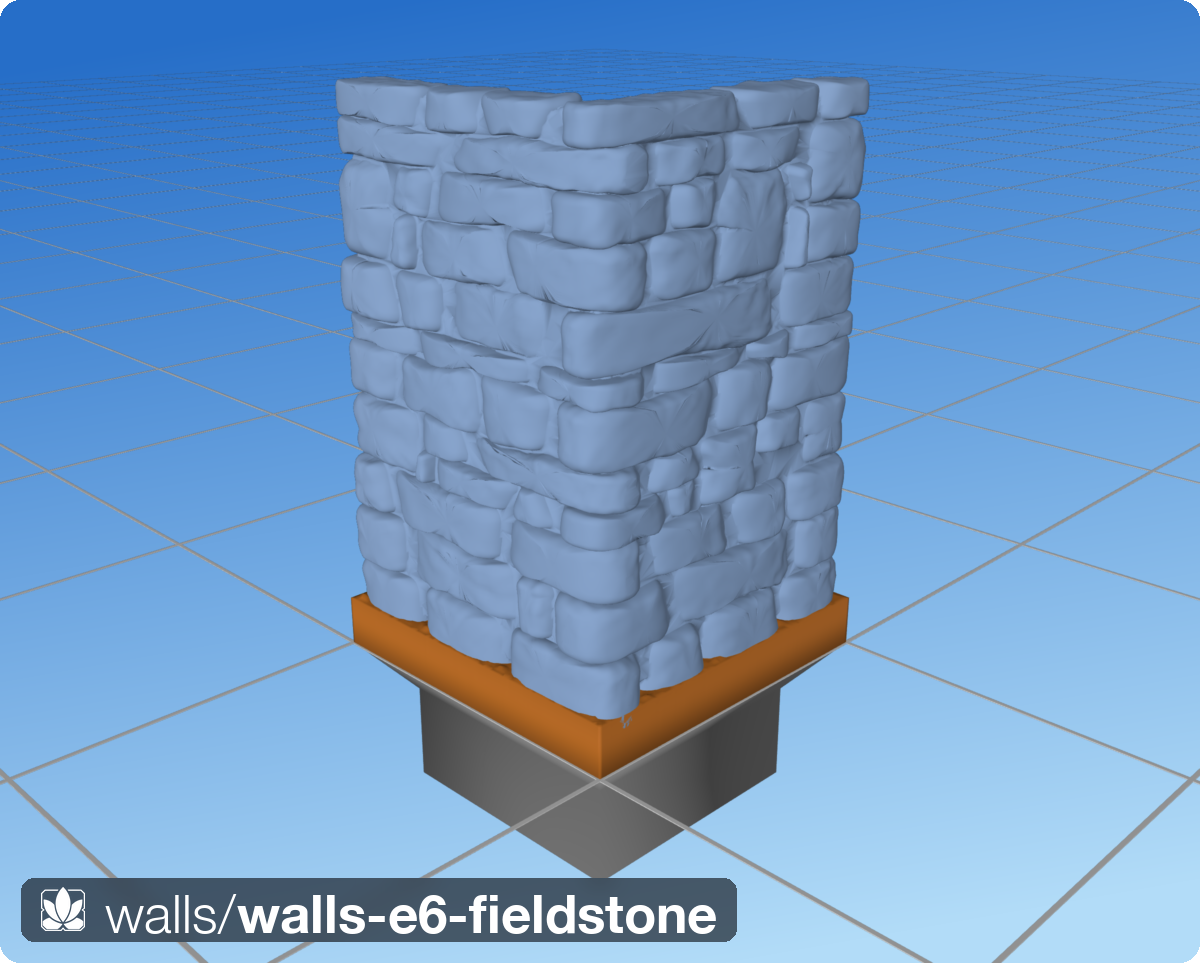
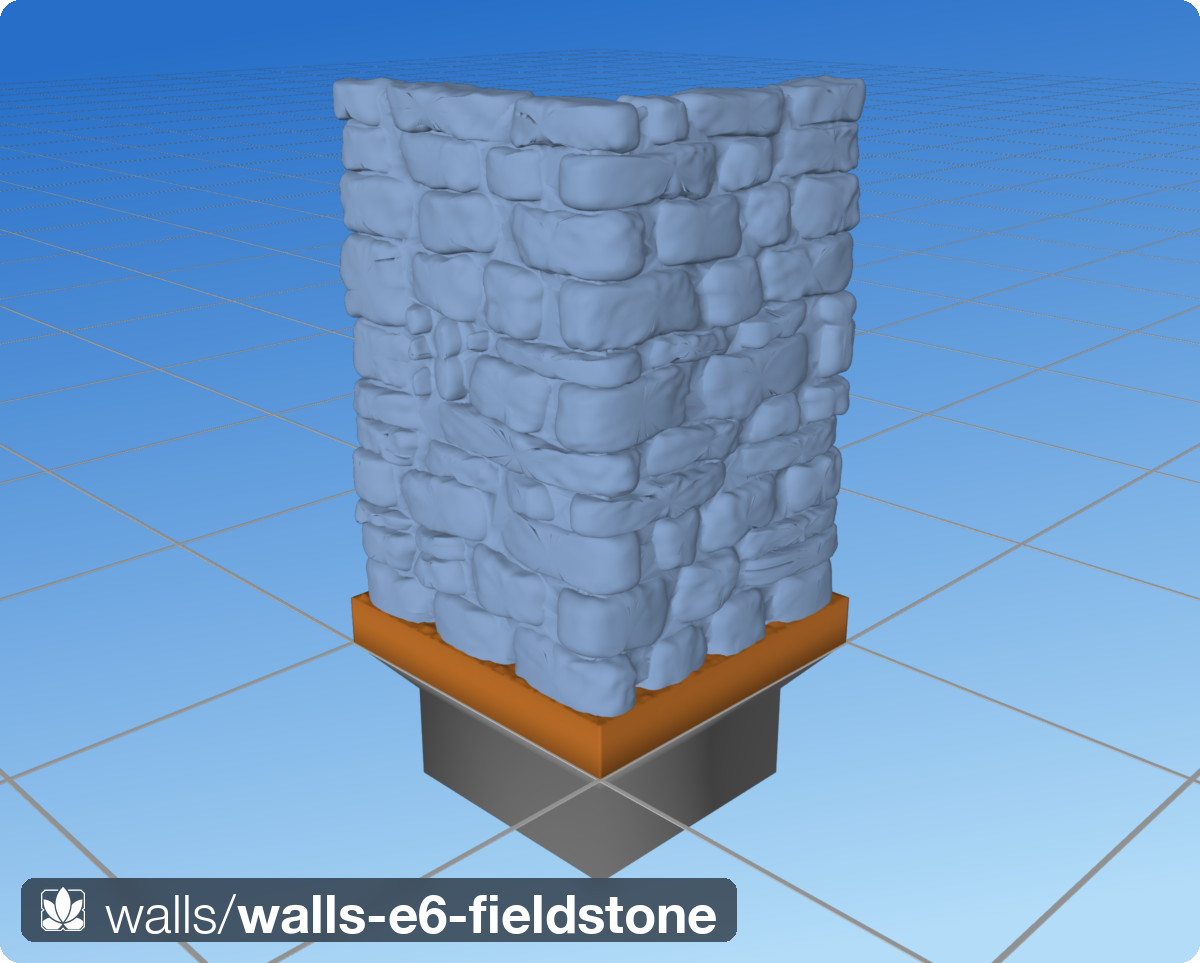
Walls: fieldstone E21+E22 — rough/irregular/wandery, then rounder + tighter
E21 (Shawn: rougher, more irregularly-shaped rocks, wandery cracks):
- texture amplitudes up: undulation clip(0.045*foot, 0.14, 0.45),
  grain clip(0.016*foot, 0.12, 0.30) at x0.6
- head joints bow +/-1.1mm at midpoint: a shared parabola, zero at
  the bed lines — both neighbours evaluate the same curve
- bed wobble 0.16-0.38 at shorter wavelengths (11-32mm); course min
  2.3 -> 2.6 so the thinnest wobble waists stay chink-class
- per-stone inward-only outline noise: irregular silhouettes, cracks
  that open and close along their run (no-overlap guarantee intact)

E22 (Shawn: more rounded, less gap; fix non-watertight):
- roundover range 1.3-2.6mm (size cap 0.26); morph shoulders fuller
  (b 0.33-0.48)
- outline noise reduced to 0.04-0.16mm WITH A FLOOR: E21's zero-noise
  minima left neighbour surfaces exactly tangent, and one tangency
  survived the union as a single non-manifold edge after float32 STL
  rounding — the hairline floor keeps every contact transversal
- exported STL watertight again (0 open, 0 non-manifold edges)

Red-mortar diag 0.0000-0.0001 on all five views.

diff --git a/src/dharmatiles/walls/fieldstone.py b/src/dharmatiles/walls/fieldstone.py
@@ -46,18 +46,35 @@ from .masonry import CutStoneWall, _Cell, _Seg
 
 # ── Iteration knobs (module constants while prototyping) ─────────────────────
 # Crack network
-_WOBBLE_AMP_MM    = (0.14, 0.32)  # per-sine bed wobble amplitude (2 sines).
-                                  # Total ≤ 0.64: two INDEPENDENT beds can
-                                  # close on each other by twice that, and
-                                  # the thinnest stones (split pairs of a
-                                  # 5.5 mm course at 2.8–7.5 mm courses)
-                                  # are ~2.5 mm — the beds must never cross
-_WOBBLE_WL_MM     = (14.0, 40.0)  # bed wobble wavelengths
+_WOBBLE_AMP_MM    = (0.16, 0.38)  # per-sine bed wobble amplitude (2 sines).
+                                  # Total ≤ 0.76: two INDEPENDENT beds can
+                                  # close on each other by twice that —
+                                  # the course minimum (2.6) keeps the
+                                  # thinnest waists ≥ ~1 mm (chink-class,
+                                  # never crossing)
+_WOBBLE_WL_MM     = (11.0, 32.0)  # bed wobble wavelengths (E21: shorter
+                                  # = more wander per stone width)
 _WOBBLE_TAPER_MM  = 12.0          # wobble fades to 0 within this of a
                                   # segment end: corners/butt ends pack
                                   # straight and tight
 _DRIFT_MM         = 2.2           # head joints slant up to ±this across
                                   # their course (staggered, never aligned)
+_BOW_MM           = 1.1           # head joints BOW up to ±this at their
+                                  # midpoint (E21 wandery cracks): the
+                                  # joint is a shared parabola, zero at
+                                  # the bed lines, both neighbours
+                                  # evaluating the same curve
+_RING_NOISE_MM    = (0.04, 0.16)  # per-stone INWARD-only outline noise
+                                  # (floor, max; 2 sinusoids over the
+                                  # perimeter): irregular stone shapes +
+                                  # cracks that open and close along
+                                  # their run.  Inward-only, so the
+                                  # no-overlap guarantee is untouched.
+                                  # The FLOOR keeps contacts hairline-
+                                  # separated instead of exactly tangent
+                                  # — an exact-tangency pinch survived
+                                  # the union as one non-manifold edge
+                                  # after float32 STL rounding (E21)
 # Stone body (E17: full pebble morph — "an isosphere morphed to fit
 # the outline/depth of the cracked region".  Sphere topology: longitude
 # follows the crack-bounded outline (the EQUATOR ring is the outline at
@@ -66,11 +83,12 @@ _DRIFT_MM         = 2.2           # head joints slant up to ±this across
 # Every surface is curved; there are no flat faces and no arris lines.
 # `roundover_mm` still rounds the 2D outline corners — the equator
 # silhouette — per stone)
-_ROUND_SIZE_CAP   = 0.22          # per-stone 2D roundover ≤ this × the
+_ROUND_SIZE_CAP   = 0.26          # per-stone 2D roundover ≤ this × the
                                   # outline's smaller bbox dimension
-                                  # (thin stones must keep their face)
+                                  # (thin stones must keep their face;
+                                  # 0.38 made dark slots of them, E16)
 _MORPH_A          = (2.0, 3.2)    # superellipse meridian s=(1−|u|^a)^b,
-_MORPH_B          = (0.30, 0.45)  # u=sin(lat): a=2,b=0.5 is a true
+_MORPH_B          = (0.33, 0.48)  # u=sin(lat): a=2,b=0.5 is a true
                                   # ellipse — which read as MELTED dough
                                   # (all curvature at the silhouette,
                                   # equator-line contact, cracks became
@@ -154,7 +172,7 @@ class FieldstoneWall(CutStoneWall):
     """
 
     def __init__(self, spine, *,
-                 course_mm: tuple[float, float] = (2.3, 6.2),
+                 course_mm: tuple[float, float] = (2.6, 6.2),
                  bay_mm:    tuple[float, float] = (5.0, 16.0),
                  joint_mm:  float = 0.0,   # physical crack gap (Shawn E18:
                                            # zero — stones TOUCH at their
@@ -164,7 +182,7 @@ class FieldstoneWall(CutStoneWall):
                                            # meeting there, a V-groove
                                            # with no gap at its root)
                  reveal_mm: float = 2.8,
-                 roundover_mm: tuple[float, float] = (0.9, 2.0),
+                 roundover_mm: tuple[float, float] = (1.3, 2.6),
                  relief_mm:    float | None = None,
                  relief_wl:    tuple[float, float] | None = (3.0, 9.0),
                  min_bond_mm:  float = 1.8,
@@ -179,7 +197,7 @@ class FieldstoneWall(CutStoneWall):
         # the stone's footprint" (_stone_texture) — restore it.
         self.relief_mm = relief_mm
         self._beds:   dict[tuple, tuple] = {}   # (seg, zkey) → sine params
-        self._drifts: dict[tuple, float] = {}   # (seg, course, tkey) → drift
+        self._drifts: dict[tuple, tuple] = {}   # (seg,course,tkey) → (d,bow)
 
     # ── shared crack curves ──────────────────────────────────────────────────
     # Both stones flanking a crack evaluate the SAME curve (cached by a
@@ -209,12 +227,15 @@ class FieldstoneWall(CutStoneWall):
             return w * taper
         return f
 
-    def _drift(self, seg_i: int, course: int, t: float) -> float:
-        """Slant of the head joint at cut position t in this course."""
+    def _drift(self, seg_i: int, course: int, t: float) -> tuple:
+        """(slant, bow) of the head joint at cut position t in this
+        course — a shared parabola: zero at the bed lines, bowing at
+        the midpoint, slanting across the course."""
         key = (seg_i, course, int(round(t * 100.0)))
         if key not in self._drifts:
             rng = self._feature_rng(11, *key)
-            self._drifts[key] = float(rng.uniform(-_DRIFT_MM, _DRIFT_MM))
+            self._drifts[key] = (float(rng.uniform(-_DRIFT_MM, _DRIFT_MM)),
+                                 float(rng.uniform(-_BOW_MM, _BOW_MM)))
         return self._drifts[key]
 
     # ── cell topology ────────────────────────────────────────────────────────
@@ -327,11 +348,14 @@ class FieldstoneWall(CutStoneWall):
                         (t_cut, zeff(cell.z1, t_cut))]
             pts = []
             for crs, zb0, zb1 in bands:
-                d = self._drift(seg_i, crs, t_cut)
+                d, bow = self._drift(seg_i, crs, t_cut)
                 zm = (zb0 + zb1) / 2.0
-                for zb in (zb0, zb1):
-                    t = t_cut + d * (zb - zm) / (zb1 - zb0)
-                    pts.append((t, zeff(zb, t)))
+                hh = (zb1 - zb0) / 2.0
+                for z in np.linspace(zb0, zb1, 5):
+                    q = (z - zm) / hh
+                    t = t_cut + d * q / 2.0 + bow * (1.0 - q * q)
+                    zpt = zeff(z, t) if z in (zb0, zb1) else z
+                    pts.append((t, zpt))
             return pts
 
         left  = side(cell.t0, cell.end0)
@@ -388,6 +412,27 @@ class FieldstoneWall(CutStoneWall):
         dense = shapely.segmentize(poly, _RING_STEP_MM)
         ring = np.asarray(dense.exterior.coords)[:-1]
         n = len(ring)
+
+        # Per-stone INWARD outline noise (E21): irregular silhouettes,
+        # cracks that open and close along their run.  Inward-only, so
+        # the no-overlap tessellation guarantee is untouched.
+        tang = np.roll(ring, -1, axis=0) - np.roll(ring, 1, axis=0)
+        nrm = np.column_stack([tang[:, 1], -tang[:, 0]])     # CCW → out
+        nrm /= np.linalg.norm(nrm, axis=1, keepdims=True) + 1e-12
+        for _ in range(2):
+            nrm += 0.5 * (np.roll(nrm, 1, axis=0)
+                          + np.roll(nrm, -1, axis=0))
+            nrm /= np.linalg.norm(nrm, axis=1, keepdims=True) + 1e-12
+        seglen = np.linalg.norm(
+            np.diff(np.vstack([ring, ring[:1]]), axis=0), axis=1)
+        s_arc = np.concatenate([[0.0], np.cumsum(seglen[:-1])])
+        per = float(seglen.sum())
+        wgt = np.ones(n)
+        for lam, ph in zip(per / brng.uniform(1.5, 3.5, 2),
+                           brng.uniform(0.0, 2.0 * np.pi, 2)):
+            wgt *= 0.5 * (1.0 + np.sin(2.0 * np.pi * s_arc / lam + ph))
+        lo, hi = _RING_NOISE_MM
+        ring = ring - nrm * (lo + (hi - lo) * wgt)[:, None]
 
         # Sphere-morph (E17): latitude rings sweep from the front pole
         # to the back pole; each ring is the outline scaled about the
@@ -498,12 +543,12 @@ class FieldstoneWall(CutStoneWall):
         f = 0.35 * _relief_field(p, brng, 6,
                                  max(foot / 4.5, 1.2),
                                  max(foot / 1.6, 3.0), spectral=1.0)
-        amp = (float(np.clip(0.030 * foot, 0.10, 0.30))
+        amp = (float(np.clip(0.045 * foot, 0.14, 0.45))
                if self.relief_mm is None else self.relief_mm)
         # Granular drybrush tooth (stones.py: 16 waves 0.6–3.2 mm; the
         # low end lifted to the subdivided mesh's ~0.6 mm edge length).
         g = 0.7 * _relief_field(p, brng, 16, 0.9, 3.2, spectral=0.7)
-        amp_g = float(np.clip(0.012 * foot, 0.10, 0.25))
+        amp_g = float(np.clip(0.016 * foot, 0.12, 0.30))
 
         # Patchy envelope: calm fields vs active shoulders.
         env = np.zeros(len(p))
@@ -515,7 +560,7 @@ class FieldstoneWall(CutStoneWall):
                           + brng.uniform(0.0, 2.0 * np.pi))
         env = 0.2 + 0.8 * np.clip(0.5 + 0.75 * env / 3.0, 0.0, 1.0)
 
-        disp = (amp * f + amp_g * 0.5 * g) * env * curv_damp
+        disp = (amp * f + amp_g * 0.6 * g) * env * curv_damp
         return trimesh.Trimesh(vertices=p + vn * disp[:, None],
                                faces=body.faces, process=False)
 

diff --git a/docs/design/walls-coursed-masonry.md b/docs/design/walls-coursed-masonry.md
@@ -194,7 +194,9 @@ unioned surface — the DB set-13 signature).
 | E17 | **Full pebble morph** (Shawn: "an isosphere morphed to fit the outline/depth of the cracked region … an irregular stone instead of a block with rounded corners").  Sphere topology per stone: longitude follows the crack-bounded outline (the EQUATOR ring is the outline at mid-depth — silhouette, cracks, and dimensions unchanged); latitude sweeps a superellipse meridian `s=(1−|sin lat|^a)^b` from face pole to face pole, exponents drawn per pole (asymmetric bulge), poles drifting off-centre.  A true ellipse meridian (first cut) read as MELTED dough — all curvature at the silhouette, equator-line contact, cracks became soft wide valleys; the fuller superellipse (a 2.0–3.2, b 0.30–0.45) keeps a gently domed face and drops fast near the silhouette so cracks stay narrow and dark.  Delaunay cap machinery deleted (sphere poles are small fans on curved domes — clean under smooth shading); cap stones no longer crown-flat (R6 relaxed for this family: rounded cobble tops).  Red 0.0000 all five views | Shawn: ✓ + next tweak |
 | E18 | **Zero gap** (Shawn: with the pebble morph the cracks are the curved edges themselves): `joint_mm` 0.1 → 0.0 — neighbouring stones TOUCH at their shared equator lines; the crack is a V-groove with no gap at its root, drawn entirely by the two pole-ward curvatures meeting.  Manifold union handles the line contacts cleanly (bed contacts micro-overlap from independent polyline sampling of the shared curve; head joints share exact segments); no watertightness warnings.  Red 0.0000 all five views | Shawn: ✓ + next tweak |
 | E19 | **Flat beds, shorter courses** (Shawn: piling flat stones, not curved; fewer tall cross-row stones; +20 % horizontal cracks): the morph goes anisotropic — z-scale = s^p with p 0.22–0.42 per stone (`_BED_FLAT_EXP`), so bed surfaces stay near-flat planes over most of the depth and only turn down at the face poles; courses 2.3–6.2 (−20 %); throughstone merges capped at 9.5 mm total height (`_THROUGH_MAX_MM`).  Red 0.0000 all five views | Shawn: "pretty good!" + next step |
-| E20 | **Scatter-stones surface texture** (Shawn: apply our existing rock texture): `_stone_texture` ports the shipped stones.py aged pass at wall-stone scale — broad organic undulation (6 waves, foot/4.5…foot/1.6, spectral 1.0; auto amplitude clip(0.03·foot, 0.10, 0.30)) + granular drybrush tooth (16 waves 0.9–3.2 mm, clip(0.012·foot, 0.10, 0.25)×0.5), × patchy 3-wave envelope (floor 0.2), displaced along Taubin-smoothed normals with curvature damping — which also protects the crack roots, exactly where the zero-gap stones touch.  `relief_mm=None` → auto; 0 disables; a number overrides the undulation amplitude (base-ctor preset substitution bypassed post-super).  Red 0.0000 all five views | pending Shawn |
+| E20 | **Scatter-stones surface texture** (Shawn: apply our existing rock texture): `_stone_texture` ports the shipped stones.py aged pass at wall-stone scale — broad organic undulation (6 waves, foot/4.5…foot/1.6, spectral 1.0; auto amplitude clip(0.03·foot, 0.10, 0.30)) + granular drybrush tooth (16 waves 0.9–3.2 mm, clip(0.012·foot, 0.10, 0.25)×0.5), × patchy 3-wave envelope (floor 0.2), displaced along Taubin-smoothed normals with curvature damping — which also protects the crack roots, exactly where the zero-gap stones touch.  `relief_mm=None` → auto; 0 disables; a number overrides the undulation amplitude (base-ctor preset substitution bypassed post-super).  Red 0.0000 all five views | Shawn: ✓ + next tweak |
+| E21 | **Rougher, irregular, wandery** (Shawn): texture amplitudes up (undulation clip(0.045·foot, 0.14, 0.45), grain clip(0.016·foot, 0.12, 0.30)×0.6); head joints BOW ±1.1 mm at midpoint (shared parabola, zero at the beds — both neighbours evaluate the same curve); bed wobble amp 0.16–0.38 at shorter wavelengths 11–32 (course min raised 2.3 → 2.6 to keep the thinnest waists chink-class); per-stone INWARD-only outline noise (2 sinusoids over the perimeter) makes silhouettes irregular and cracks open/close along their run without touching the no-overlap guarantee | folded into E22 |
+| E22 | **Rounder, less gap + watertight fix** (Shawn): roundover 1.3–2.6 (size cap 0.26), morph shoulders slightly fuller (b 0.33–0.48); outline noise reduced to 0.04–0.16 mm **with a floor** — E21's zero-noise minima left surfaces exactly tangent, and one tangency survived the union as a single non-manifold edge after float32 STL rounding; the hairline floor keeps every contact transversal.  Exported STL watertight again (0 open, 0 non-manifold).  Red 0.0000–0.0001 | pending Shawn |
 
 Implementation notes: cut-stone blocks finish through `_blur_remesh`
 (σ 0.7) — `subdivide_to_size` leaves T-junctions that break the
